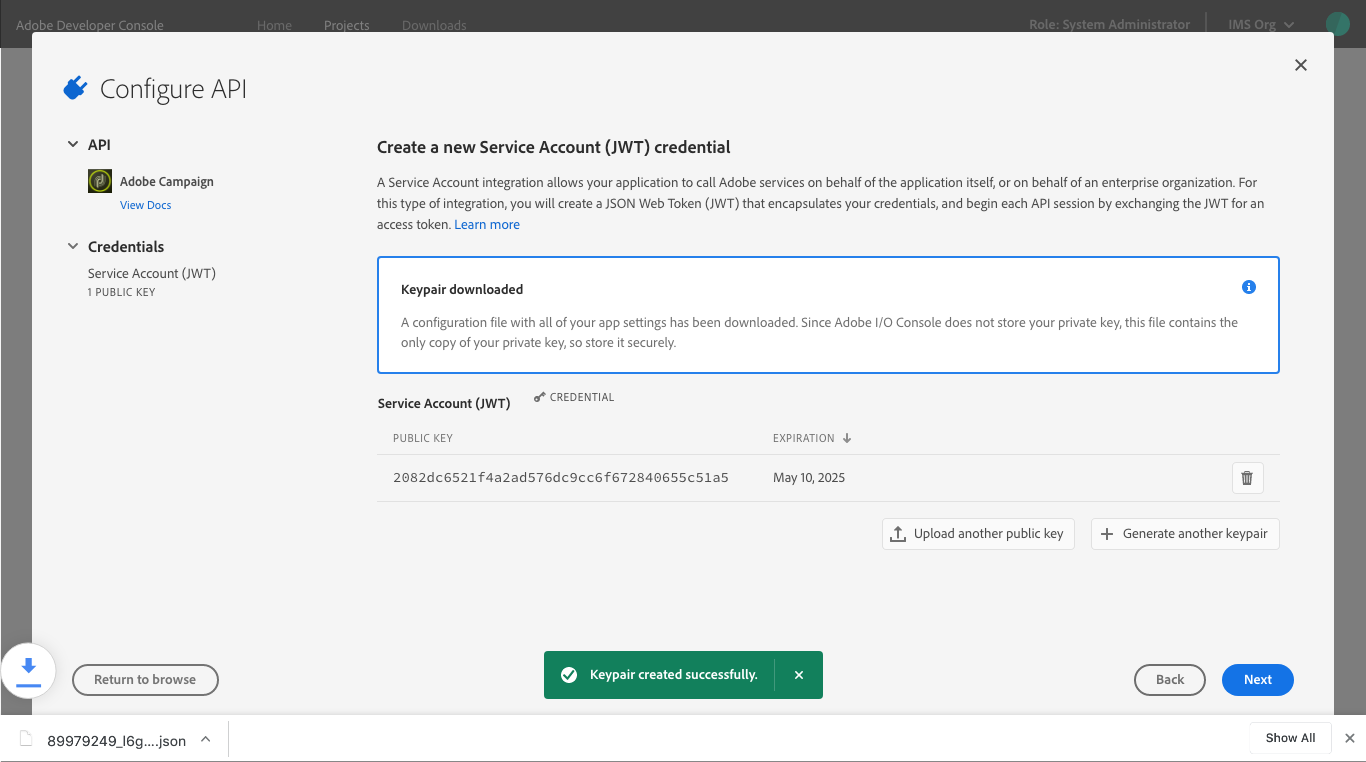
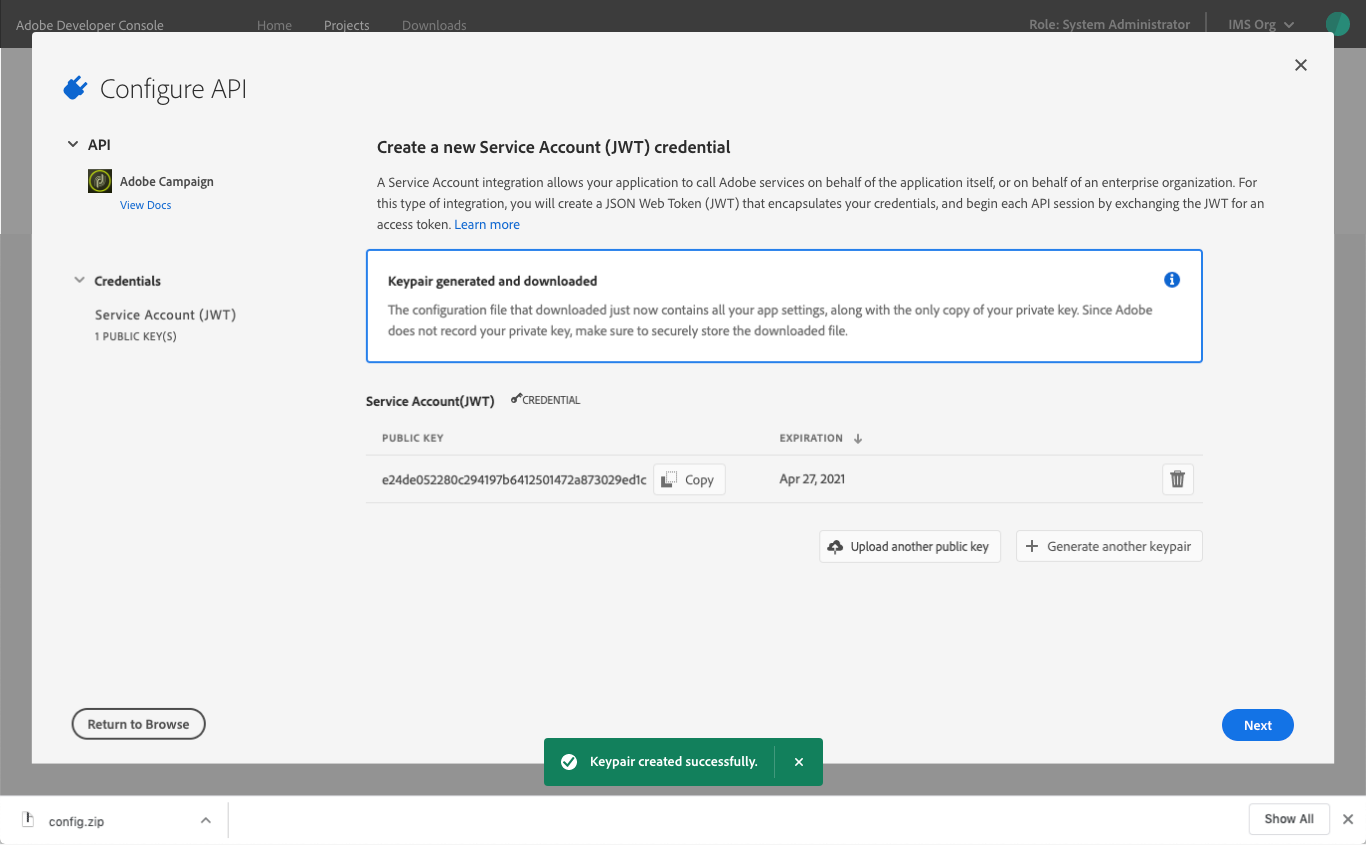
Complete API - JWT workflow

diff --git a/services-add-api-jwt.md b/services-add-api-jwt.md
@@ -12,21 +12,73 @@ In an empty project, select **+Add to Project** in the left navigation of the *P
 
 Using REST APIs allows your application to make calls to Adobe services and products. The *Add an API* dialog shows a list of available services with the default *View by* setting to show only those services available to you.
 
-> **Note:** Many services are only available through paid licenses or subscriptions. Licenses and subscriptions can refer to either your organization or your personal licenses if you are building a personal project. For this reason, if you select "All" from the *View by* dropdown, you may notice that several services appear greyed out in the list. If you believe that you should have access to one of these disabled services, please speak with your system administrator or Adobe sales representative.
+> **Note:** Many services are only available through paid licenses or subscriptions. Licenses and subscriptions can refer to either your organization or your personal licenses if you are building a personal project. 
+>
+> For this reason, if you select "All" from the *View by* dropdown, you may notice that several services appear greyed out in the list. If you believe that you should have access to one of these disabled services, please speak with your system administrator or Adobe sales representative.
 
 ![](images/services-add-api.png)
 
+Once you have found and chosen an API that you would like to add, select **Next** to begin configuring the API.
+
 ![](images/services-select-api-jwt.png)
+
+## Configure API
+
+A service account (JWT) integration lets your application call Adobe services on its own behalf, or on the behalf of an enterprise organization. For this type of integration, a JSON Web Token (JWT) must be created that includes your credentials. You will then begin each session by exchanging the JWT for an access token.
+
+There are two options for creating the necessary credentials:
+
+1. **Generate a key pair:** Adobe Developer Console generates a public/private key pair for you. This private key is not stored within console, but it is automatically downloaded to your device.  
+
+    In order to proceed with generating a key pair, choose option one and then select **Generate keypair**.
+
+2. **Upload your public key:** Create your own public/private key pair through terinal and upload your public key.
+
+    To upload your own public key, drag and drop a file from your computer or use *Select a File* to choose the file that you would like to use. Then select **Next** to proceed.
+
+The remainder of this documentation takes advantage of the functionality within console to generate a key pair automatically.
 
 ![](images/services-api-jwt-create.png)
 
+## Generate key pair
+
+Immediately upon selecting the **Generate keypair** button, a file is downloaded to your computer containing your private key, as well as all of your app settings.
+
+> **Note:** Adobe does not record your private key, therefore you must make sure to securely store the downloaded file.
+
+The public key is also visible, including an option to download they key, upload another public key, or generate another key pair. 
+
+If the selected API configuration is complete, a **Save configured API** button appears in the bottom right corner of the dialog. Selecting **Save configured API** will complete the configuration for the API. You can now proceed to the [API overview](#api-overview) section later in this guide.
+
+Otherwise, please proceed to the next section on [selecting product profiles](#select-product-profiles). 
+
 ![](images/services-api-jwt-keypair.png)
+
+## Select product profiles
+
+After a key pair has been generated, you can select **Next** to continue configuring the API and choose from a list of available product profiles. Your integration's service account will gain access to granular features of the Adobe product based on the product profiles that you select.
+
+As product profiles are selected, they appear in the left navigation under *Product Profiles*. Once you have selected at least one profile, the **Save configured API** button will become available.
+
+Continue selecting all required product profiles and, once complete, select **Save configured API** to complete the configuration.
 
 ![](images/services-api-jwt-choose-profiles.png)
 
+## API overview
+
+With the API configured, you are redirected to the API overview, providing links to documentation, the ability to download files in order to experiment with the API using Postman, and a dialog allowing you to generate an access token by providing your private key.
+
+You can also remove the API from this screen or, if the API includes product profiles, edit the profiles selected during configuration.
+
 ![](images/services-api-jwt-added.png)
 
+## Generate token
+
+To generate a token, copy and paste your private key into the *Private key* field and select **Generate token**.
+
 ![](images/services-api-jwt-generate-token.png)
+
+If the private key is correct, an access token will appear along with the ability to **Copy** the token for use.
 
 ![](images/services-api-jwt-token.png)
 
@@ -36,10 +88,16 @@ Now that you have added an API, you can return to the *Project overview* (or *Wo
 
 You can select the specific API from the left navigation to view its details or remove the API using the **Remove API** button in the top-right corner.
 
-You can also select the specific credential type from the left navigation to view the *Credential details* and perform other actions (generate JWT tokens, copy credential details, retrieve client secrets, etc.) as needed. For more information on accessing credentials, please read the [credentials overview](credentials.md).
+You can also select the specific credential type from under *Credentials* in the left navigation to view the *Credential details* and perform other actions (generate JWT tokens, copy credential details, retrieve client secrets, etc.) as needed. For more information on accessing credentials, please read the [credentials overview](credentials.md).
+
+## Insights
+
+Adobe Developer Console automatically generates valuable insights related to API usage for each enterprise project (or individual workspace when working in a templated project), as well as for each personal project, including XD Plugins.
+
+To learn more about insights, begin by reading the [insights overview](insights.md).
 
 ## Next steps
 
 With an API successfully added, you can follow the same workflow steps to add additional APIs, or return to the [services overview](services.md) to select another type of service to add to your project.
 
-If you have completed development on your project and are ready to submit your application for approval, please read the [project approval process guide](approval.md) to get started.
+If you have completed development on your project and are ready to submit your application for approval, please read the [project approval guide](approval.md) to get started.

diff --git a/services.md b/services.md
@@ -2,7 +2,7 @@
 
 After creating a project, it is time to begin adding services. These services include accessing Adobe APIs, adding events, and enabling runtime.
 
-> **Note:** If you are looking for a guide on how to build an XD Plugin, please begin by reading the [plugins overview](plugin-project.md) for a complete guide to creating, updating, and distributing plugins.
+> **Note:** If you are looking to build an XD Plugin, please visit the [plugins overview](plugin-project.md) for a complete guide to creating, updating, and distributing plugins.
 
 ## Add a service
 
@@ -49,9 +49,19 @@ You can select the specific API from the left navigation to view its details or 
 
 You can also select the specific credential type from the left navigation to view the *Credential details* and perform other actions (generate JWT tokens, copy credential details, retrieve client secrets, etc.) as needed. For more information on accessing credentials, please read the [credentials overview](credentials.md).
 
+To view credentials for events, select the specific event registration from the left navigation and select the *Credentials* tab. For more information on working with events, including viewing event credentials, follow the [Add Events guide](services-add-events.md).
+
+## Insights
+
+Adobe Developer Console automatically generates valuable insights related to API and runtime usage for each enterprise project (or for each workspace when working in a templated project). 
+
+API insights are also generated for personal projects, however because Runtime cannot be added to personal projects, there are no runtime usage insights available.
+
+To learn more about insights, read the [insights overview](insights.md).
+
 ## Next steps
 
 You can continue to add as many services as you need by following the various [workflow guides](#service-specific-workflows) found in this document.
 
-Once you have completed development on your project and are ready to submit your application for approval, please read the [project approval process guide](approval.md) to get started.
+Once you have completed development on your project and are ready to submit your application for approval, please read the [project approval guide](approval.md) to get started.
 

diff --git a/credentials.md b/credentials.md
@@ -1,6 +1,14 @@
 # Credentials overview
 
+Once you have successfully added APIs to your project or workspace, you can return to the *Project overview* (or *Workspace overview* in a templated project) at any time to view the details for that API and any other project services you may have added. 
+
+> **Note:** To view credentials for events, select the specific event registration from the left navigation and then select the *Credentials* tab. For more information on working with events, including viewing event credentials, follow the [guide for adding events to a project](services-add-events.md).
+
 ![](images/credentials-project-overview.png)
+
+You can select the specific API from the left navigation to view its details or remove the API using the **Remove API** button in the top-right corner.
+
+You can also select the specific credential type from the left navigation to view the *Credential details* and perform other actions (generate JWT tokens, copy credential details, retrieve client secrets, etc.) as needed. 
 
 ![](images/credentials-details.png)
 
